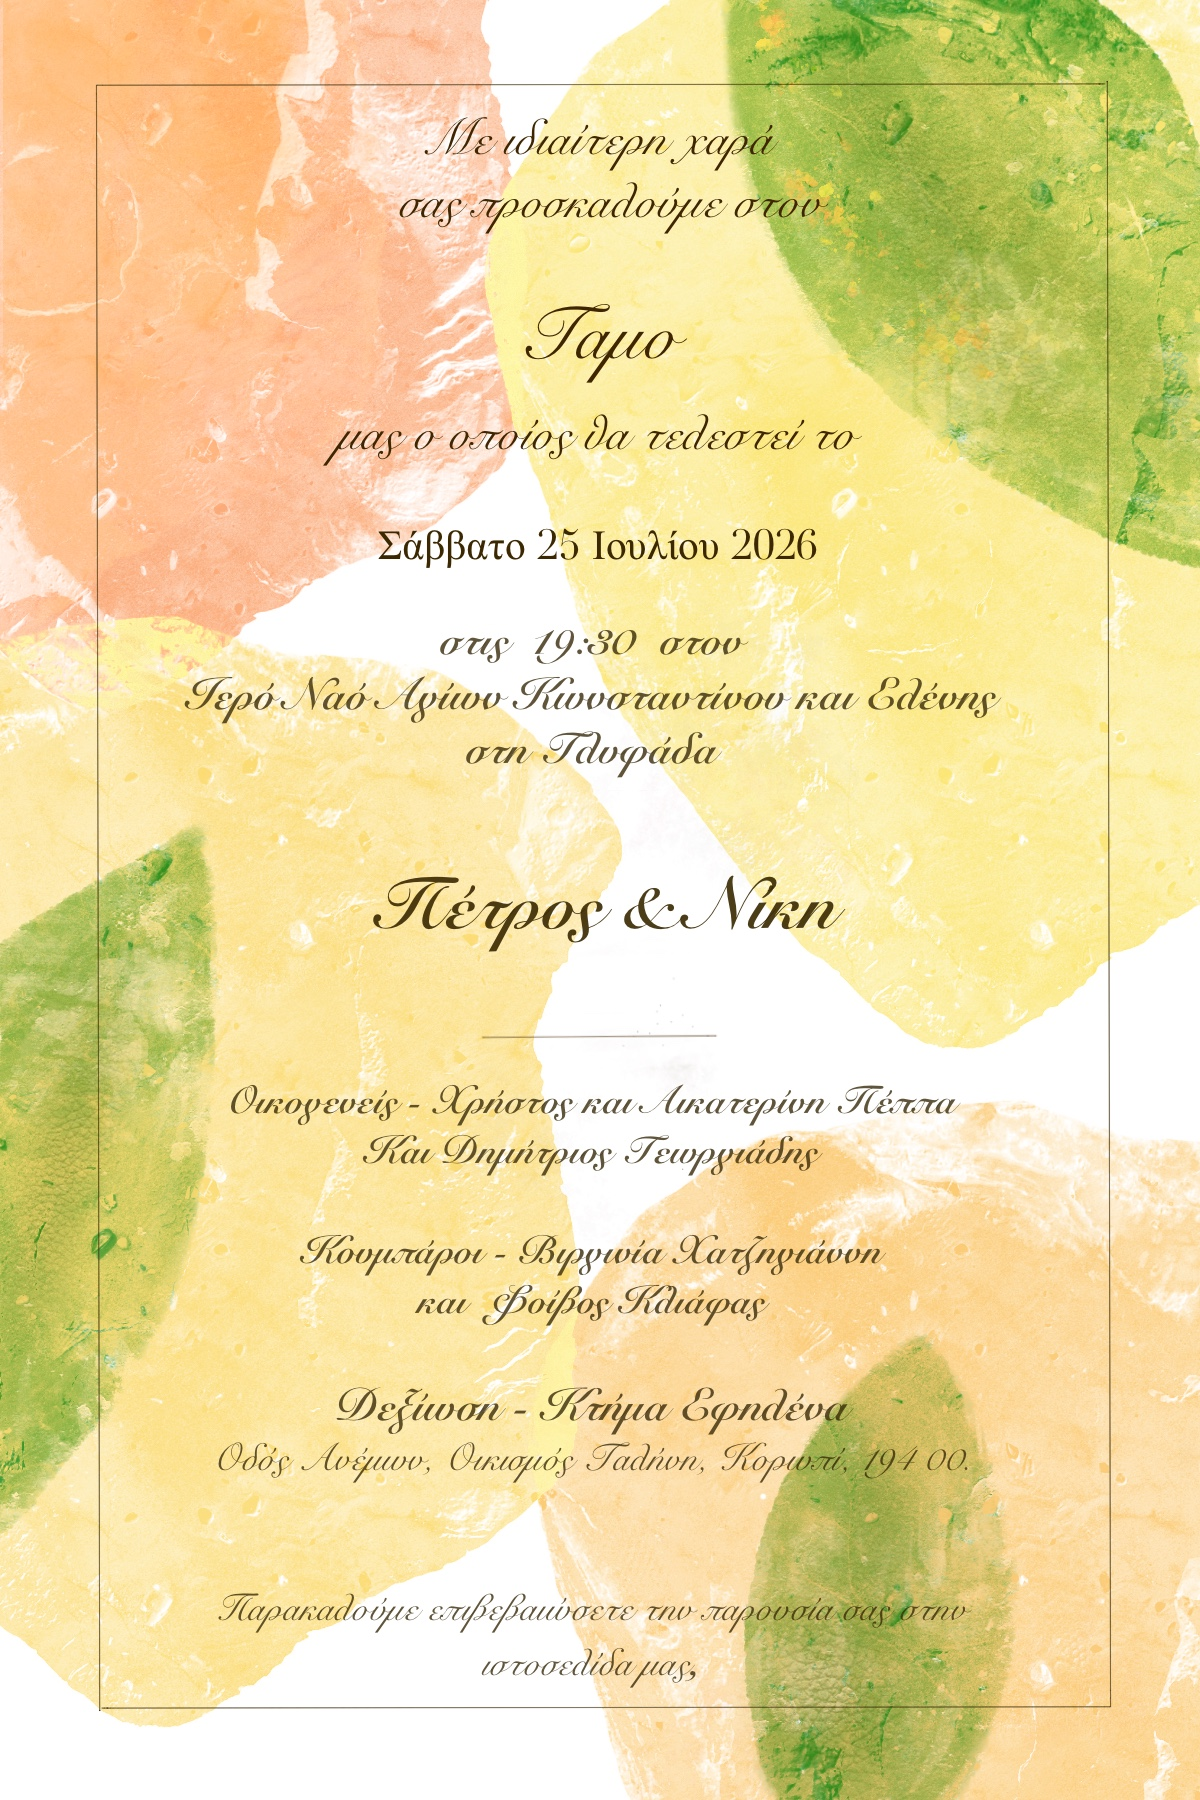
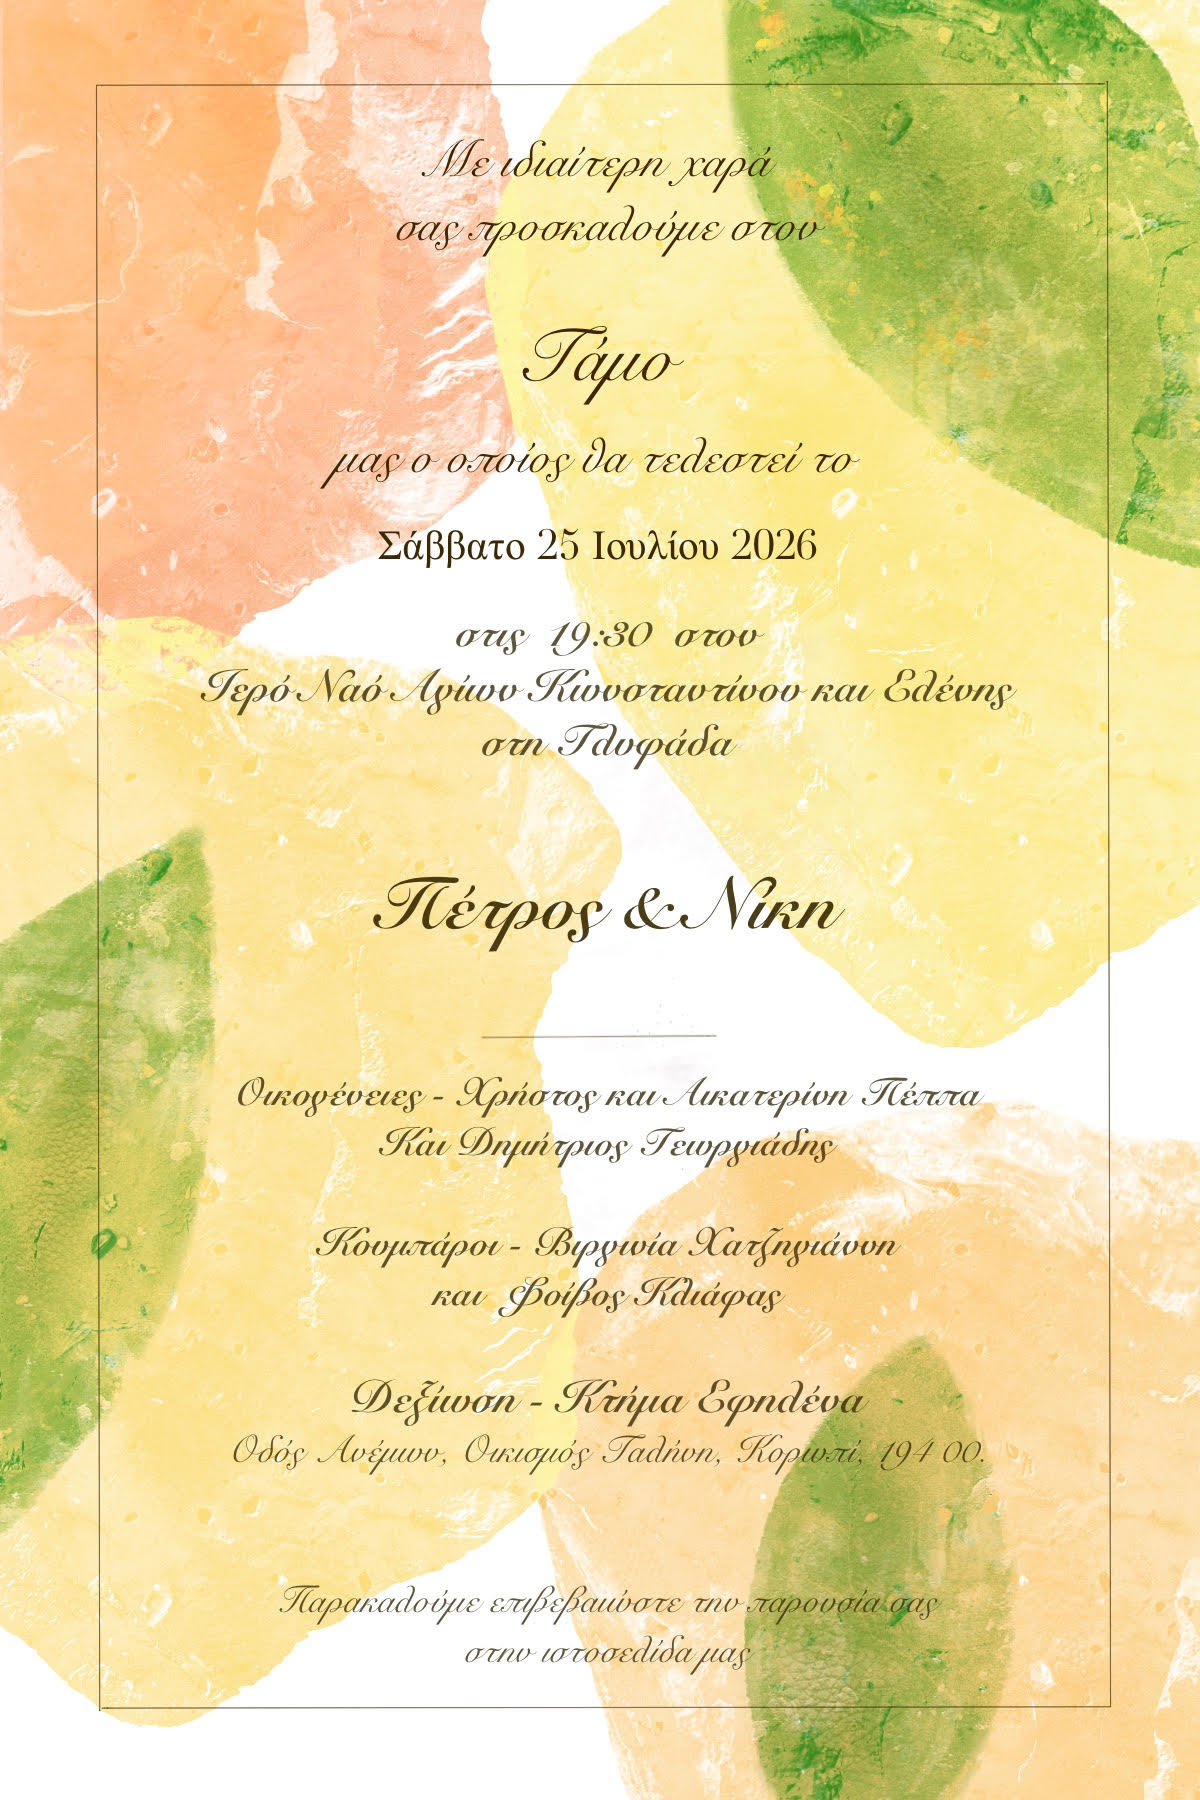
fixes

diff --git a/src/routes/index.tsx b/src/routes/index.tsx
@@ -961,7 +961,7 @@ const faqs = [
       ],
       el: [
         "Φυσικά! Προσθέστε τα στοιχεία τους και απαντήστε εκ μέρους τους με το κουμπί «Προσθήκη καλεσμένου».",
-        "Το ίδιο ισχύει και για οικογένειες: απαντήστε με τον ίδιο τρόπο για όλη την παρέα ή οικογένειά σας.",
+        "Το ίδιο ισχύει και για οικογένειες: απαντήστε με τον ίδιο τρόπο για όλη την παρέα ή την οικογένειά σας.",
       ],
     },
   },
@@ -1033,7 +1033,7 @@ const faqs = [
       ],
       el: [
         "Με αυτοκίνητο ή ταξί. Ο χώρος της δεξίωσης είναι περίπου 20 λεπτά με το αυτοκίνητο από την εκκλησία.",
-        "Πολλοί καλεσμένοι θα έχουν αυτοκίνητο. Αν δεν έχετε δικό σας ή σίγουρη μεταφορά, ενημερώστε απευθείας τον Πέτρο ή τη Nikki και θα βρούμε λύση :)",
+        "Πολλοί καλεσμένοι θα έχουν αυτοκίνητο. Αν δεν έχετε δικό σας ή σίγουρη μεταφορά, ενημερώστε απευθείας τον Πέτρο ή τη Νίκη και θα βρούμε λύση :)",
       ],
     },
   },
